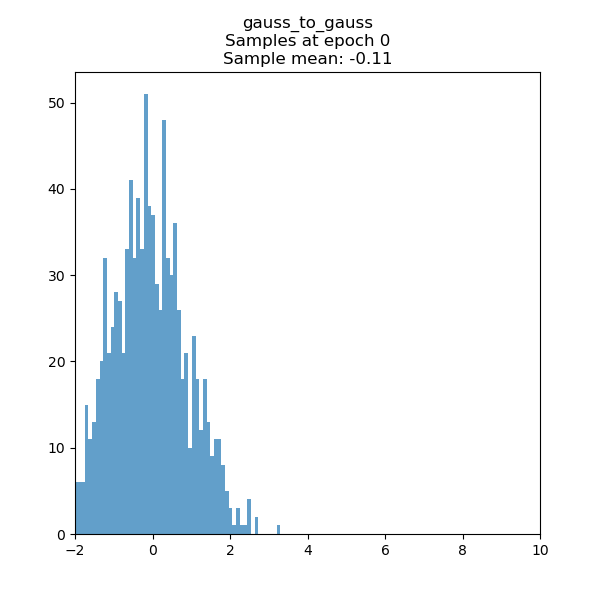
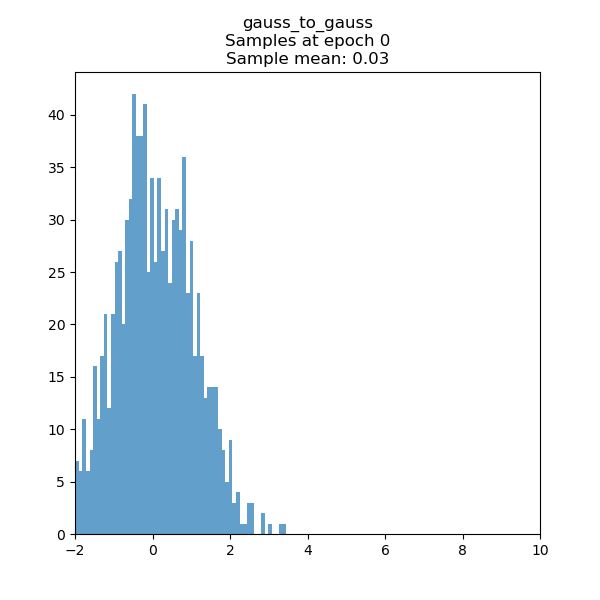
added logs and proper file paths

diff --git a/nf_gauss/nf_gauss.py b/nf_gauss/nf_gauss.py
@@ -7,15 +7,22 @@ import FrEIA.modules as Fm # collection of invertible operations
 import os
 import shutil
 import yaml
+import logging
+import time
 
 from utils import *
+
+this_dir = os.path.dirname(os.path.abspath(__file__))
+parent_dir = os.path.dirname(this_dir)
+log_dir = os.path.join(parent_dir, 'logs')
+os.makedirs(log_dir, exist_ok=True)
 
 with open('/work/jmustafi/bachelorarbeit/tauFF/nf/configs/config.yaml', 'r') as f:
     config = yaml.safe_load(f)
 DIM = config['dim']
 BATCHSIZE = config['batch_size']
 N_BLOCKS = config['n_blocks']
-OUTPUT_FOLDER = config['output_folder']
+PLOT_FOLDER = os.path.join(parent_dir, config['plot_folder'])
 HIDDEN_NODES_NN = config['hidden_nodes_nn']
 HIDDEN_LAYERS_NN = config['hidden_layers_nn']
 N_SAMPLES = config['n_samples']
@@ -25,18 +32,36 @@ EPOCHS = config['n_epochs']
 LR = config['learning_rate']
 SCHEDULER = config['scheduler']
 
+log_path = os.path.join(log_dir, f'{NAME}.log')
+logging.basicConfig(
+    filename=log_path,
+    filemode='a',
+    format='%(asctime)s - %(levelname)s - %(message)s',
+    level=logging.INFO
+)
+
+logging.info("\n")
+logging.info("----------------------------------------------")
+logging.info("Loaded configuration:")
+for key, value in config.items():
+    logging.info(f"  {key}: {value}")
+
+if os.path.exists(PLOT_FOLDER):
+    shutil.rmtree(PLOT_FOLDER)
+os.makedirs(PLOT_FOLDER, exist_ok=True)
+
 #######################################
 
-if os.path.exists(OUTPUT_FOLDER):
-    shutil.rmtree(OUTPUT_FOLDER)
-os.makedirs(OUTPUT_FOLDER, exist_ok=True)
+start_time = time.time()
 
 inn = Ff.SequenceINN(DIM)
 for _ in range(N_BLOCKS):
     # use RNVP Flow. Its parameters are learned by a MLP
     # clamp is a hyperparameter that influences the regular RNVP transformation to not diverge too much
-    inn.append(Fm.RNVPCouplingBlock, subnet_constructor=mlp_constructor, clamp=CLAMP)
-    #inn.append(Fm.NICECouplingBlock, subnet_constructor=mlp_constructor)
+    #inn.append(Fm.RNVPCouplingBlock, subnet_constructor=mlp_constructor, clamp=CLAMP)
+    inn.append(Fm.NICECouplingBlock, subnet_constructor=mlp_constructor)
+    #inn.append(Fm.AffineCouplingOneSided, subnet_constructor=mlp_constructor, clamp=CLAMP)
+
 
 train(model=inn,
     name=NAME,
@@ -46,4 +71,8 @@ train(model=inn,
     device=torch.device("gpu" if torch.cuda.is_available() else "cpu"),
     jupyter_nb=False)
 
-print(f"Model is bijective: {is_bijective(inn)}")
+logging.info(f"Model is bijective: {is_bijective(inn)}")
+
+end_time = time.time()
+elapsed = end_time - start_time
+logging.info(f"Total runtime: {elapsed:.2f} seconds")

diff --git a/nf_gauss/utils.py b/nf_gauss/utils.py
@@ -5,13 +5,14 @@ import torch.distributions as dist
 
 from matplotlib import pyplot as plt
 import yaml
+import logging
 
 with open('/work/jmustafi/bachelorarbeit/tauFF/nf/configs/config.yaml', 'r') as f:
     config = yaml.safe_load(f)
 DIM = config['dim']
 BATCHSIZE = config['batch_size']
 N_BLOCKS = config['n_blocks']
-OUTPUT_FOLDER = config['output_folder']
+PLOT_FOLDER = config['plot_folder']
 HIDDEN_NODES_NN = config['hidden_nodes_nn']
 HIDDEN_LAYERS_NN = config['hidden_layers_nn']
 N_SAMPLES = config['n_samples']
@@ -97,14 +98,14 @@ def train(model,
             else:
                 epochs_no_improve += 1
             if epochs_no_improve >= 20:
-                print(f"Early stopping at epoch {epoch} (no improvement for at least {IMPROVEMENT_THRESHOLD*100}% for 20 epochs).")
+                logging.info(f"Early stopping at epoch {epoch} (no improvement for at least {IMPROVEMENT_THRESHOLD*100}% for 20 epochs).")
                 break
 
         if scheduler is not None:
             scheduler.step()
         
         if (epoch % int(n_epochs/10.) == 0):
-            print(f"Epoch {epoch}, Loss: {loss_value.item():.4f}")
+            logging.info(f"Epoch {epoch}, Loss: {loss_value.item():.4f}")
 
             # plot
             z_samples = pz.sample((N_SAMPLES,)).to(device)
@@ -123,7 +124,7 @@ def train(model,
             if jupyter_nb:
                 plt.show()
             else:
-                plt.savefig(f"{OUTPUT_FOLDER}/epoch_{epoch}.png")
+                plt.savefig(f"{PLOT_FOLDER}/epoch_{epoch}.png")
 
 def is_bijective(model):
     """
